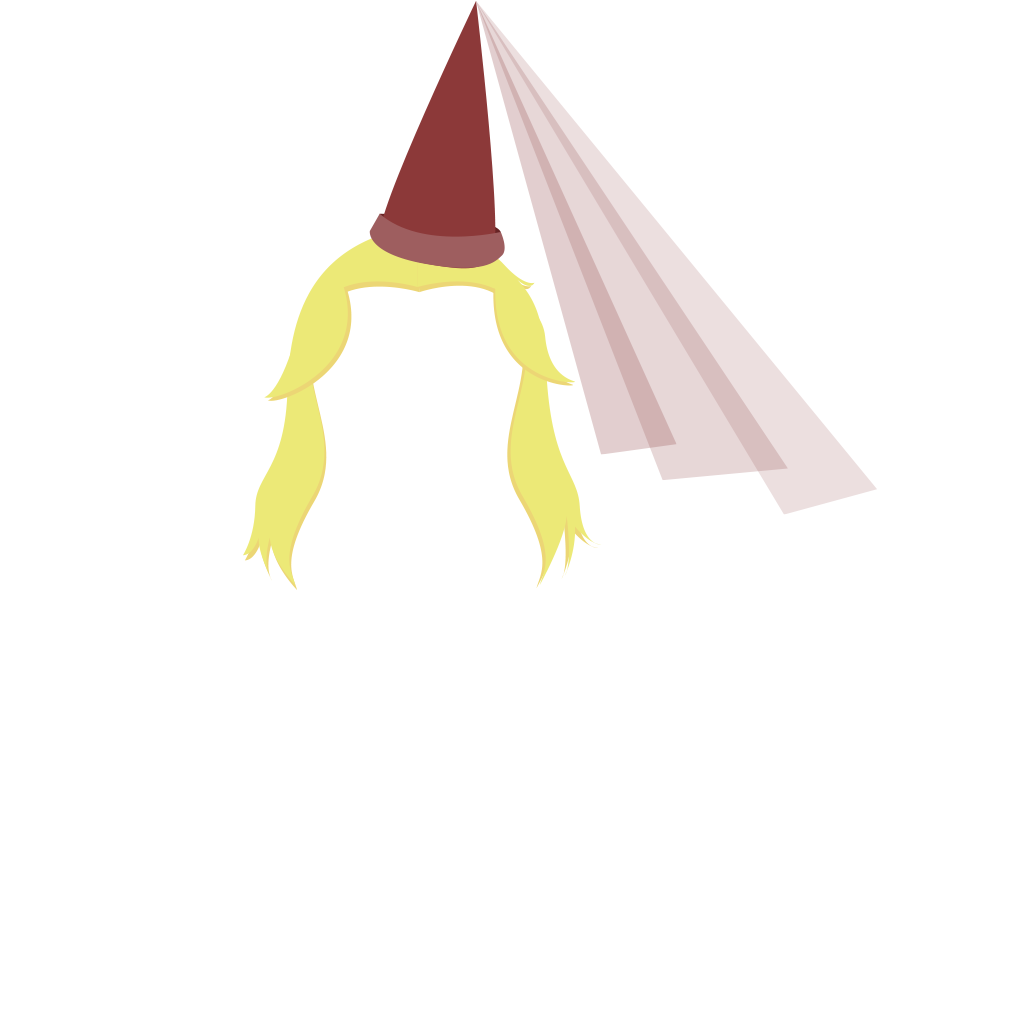
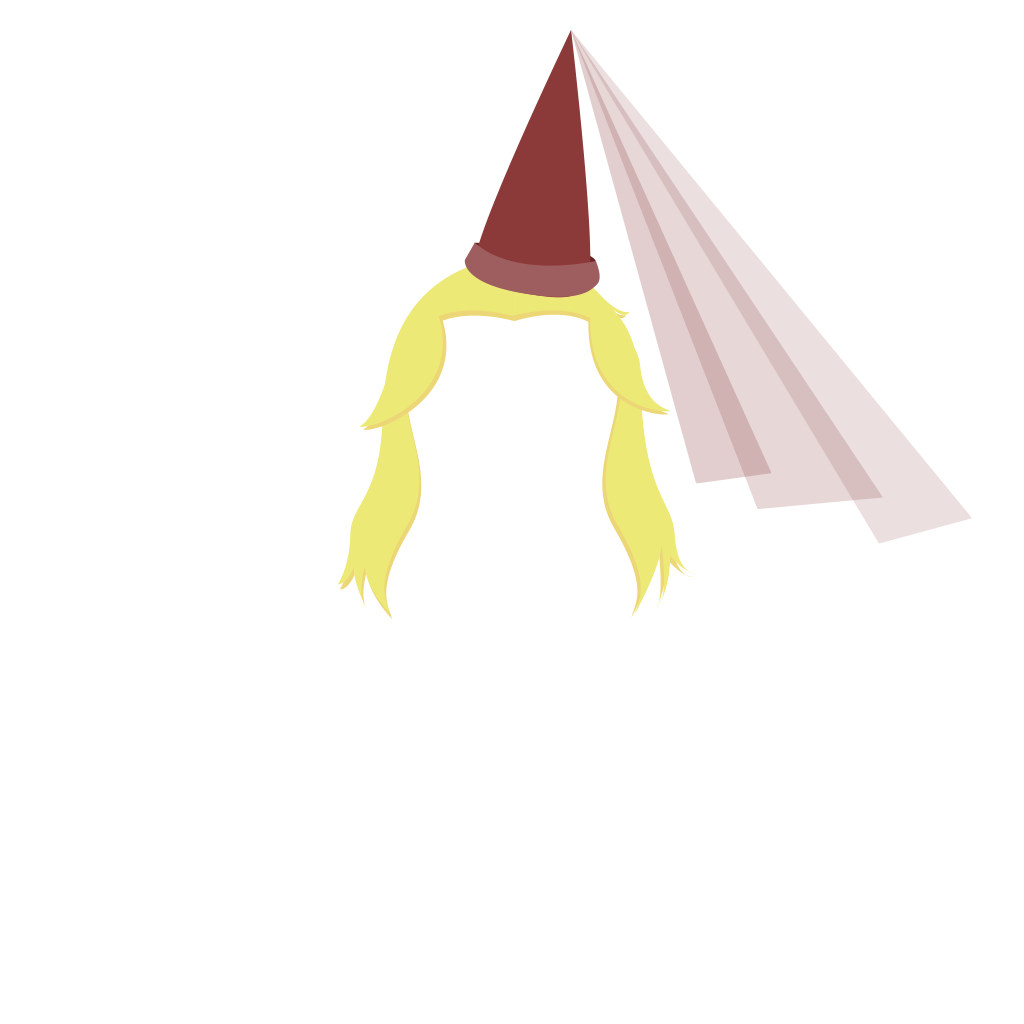
fixed rapunzel's hat, implemented new face and weapon

Changed region(s): [[0.2188, 0.0, 0.9375, 0.5938]]

diff --git a/vox/Source/vox/src/PuppetResourceManager.cpp b/vox/Source/vox/src/PuppetResourceManager.cpp
@@ -117,6 +117,7 @@ void PuppetResourceManager::init(){
 	faces.push_back(new TextureSampler("../assets/hurly-burly/Face/", "Face5.png.def"));
 	faces.push_back(new TextureSampler("../assets/hurly-burly/Face/", "Face6.png.def"));
 	faces.push_back(new TextureSampler("../assets/hurly-burly/Face/", "Face7.png.def"));
+	faces.push_back(new TextureSampler("../assets/hurly-burly/Face/", "blondeHair.png.def"));
 	for(auto i : faces){
 		resources.push_back(i);
 	}
@@ -164,6 +165,7 @@ void PuppetResourceManager::init(){
 	itemMeleeWeapons.push_back(new TextureSampler("../assets/hurly-burly/WeaponAssets/", "carrot.png.def"));
 	itemMeleeWeapons.push_back(new TextureSampler("../assets/hurly-burly/WeaponAssets/", "hamBone.png.def"));
 	itemMeleeWeapons.push_back(new TextureSampler("../assets/hurly-burly/WeaponAssets/", "stringHam.png.def"));
+	itemMeleeWeapons.push_back(new TextureSampler("../assets/hurly-burly/WeaponAssets/", "mandolin.png.def"));
 	for(auto i : itemMeleeWeapons){
 		resources.push_back(i);
 	}
